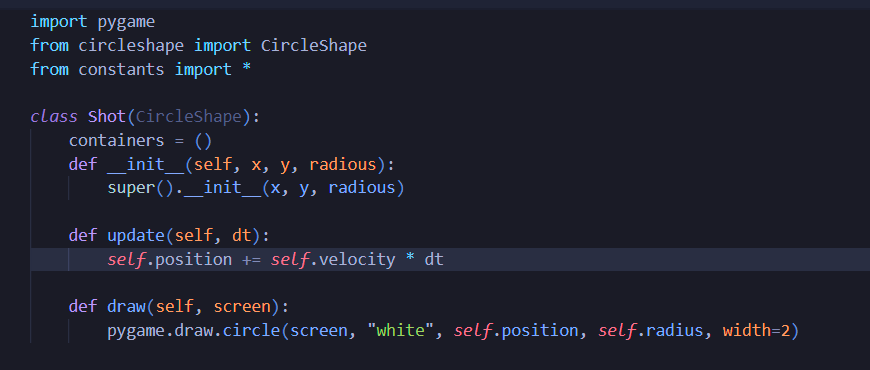
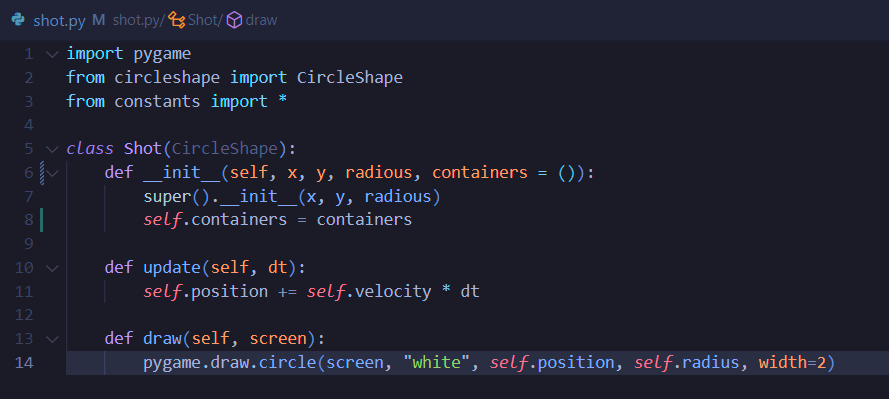
progress website

diff --git a/asteroids.html b/asteroids.html
@@ -10,7 +10,7 @@
 
 <body>
     <article>
-        <div><h1>Thomas' Projects</h1><p><a href="index.html">HOME</a></p><p><a href="index2.html">PROJECT DIRECTORY</a></p><h2>Asteroids</h2><p><img src="static/images/asteroids/asteroids_gif.gif" alt="asteroids pic"></p><blockquote>I know what your thinking.. <i>That game is simple and has been made many times over!</i> While that is true I used this project to experiment with the <i>Pygame</i> moduel and learned many things along the way.</blockquote><h2>The Code</h2><h2><i>Before graphics and controller</i></h2><p><img src="static/images/asteroids/bwasteroids_gif.gif" alt="bwasteroids"></p><ul><li>This is the <a href="https://github.com/BruzaTom/asteroids-">REPO</a> before graphics and controller inputs.</li></ul><p><img src="static/images/asteroids/asteroids_dir.png" alt="asteroids dir pic"></p><blockquote>Here is a look at the root directory.</blockquote><h2><i>requirements.txt</i></h2><p><img src="static/images/asteroids/requirements.png" alt="reqirements"></p><blockquote>Short and sweet! The only requirements for the game are <i>pygame2.6.0</i>, with that the game will run great!</blockquote><h2><i>constants.py</i></h2><p><img src="static/images/asteroids/constants.png" alt="constants"></p><blockquote>If you have developed games before you probly understand the importance of constant variables. If not, the constant variables provide controle to testing the feel of the game and how it behaves. Rather than searching for every instance of player speed in the game, I can simply modify one variable.</blockquote><h2>Class Files</h2><h2><i>circleshape.py</i></h2><p><img src="static/images/asteroids/circleshape2.png" alt="circlshape"></p><blockquote>The foundation of every object in the game is a circleshape. Acting as a hit box, north star for positioning, and in some cases the actual graphic.</blockquote><h2><i>player.py</i></h2><p><img src="static/images/asteroids/player2.png" alt="player"></p><blockquote>Here is the star of the show, the player! This class handles player positioning, inputs to control player, and a method to create shot objects. speaking of shots..</blockquote><p><img src="static/images/asteroids/shots_gif.gif" alt="shots"></p><h2><i>shot.py</i></h2><p><img src="static/images/asteroids/shot.png" alt="shots"></p></div>
+        <div><h1>Thomas' Projects</h1><p><a href="index.html">HOME</a></p><p><a href="index2.html">PROJECT DIRECTORY</a></p><h2>Asteroids</h2><p><img src="static/images/asteroids/asteroids_gif.gif" alt="asteroids pic"></p><blockquote>I know what your thinking.. <i>That game is simple and has been made many times over!</i> While that is true I used this project to experiment with the <i>Pygame</i> moduel and learned many things along the way.</blockquote><h2>The Code</h2><h2><i>Before graphics and controller</i></h2><p><img src="static/images/asteroids/bwasteroids_gif.gif" alt="bwasteroids"></p><ul><li>This is the <a href="https://github.com/BruzaTom/asteroids-">REPO</a> before graphics and controller inputs.</li></ul><p><img src="static/images/asteroids/asteroids_dir.png" alt="asteroids dir pic"></p><blockquote>Here is a look at the root directory.</blockquote><h2>requirements.txt</h2><p><img src="static/images/asteroids/requirements.png" alt="reqirements"></p><blockquote>Short and sweet! The only requirements for the game are <i>pygame2.6.0</i>, with that the game will run great!</blockquote><h2>constants.py</h2><p><img src="static/images/asteroids/constants.png" alt="constants"></p><blockquote>If you have developed games before you probly understand the importance of constant variables. If not, the constant variables provide controle to testing the feel of the game and how it behaves. Rather than searching for every instance of player speed in the game, I can simply modify one variable.</blockquote><h2>circleshape.py</h2><p><img src="static/images/asteroids/circleshape2.png" alt="circlshape"></p><blockquote>The foundation of every object in the game is a circleshape. Acting as a hit box, north star for positioning, and in some cases the actual graphic.</blockquote><h2>player.py</h2><p><img src="static/images/asteroids/player2.png" alt="player"></p><blockquote>Here is the star of the show, the player! This class handles player positioning, inputs to control player, and a method to create shot objects. speaking of shots..</blockquote><p><img src="static/images/asteroids/shots_gif.gif" alt="shots"></p><h2>shot.py</h2><p><img src="static/images/asteroids/shot2.png" alt="shots"></p><blockquote>Pretty standard stuff here an object drawn traveling away from the path it was spawnd.(from players position) Lets get into these containers..</blockquote><h2>main.py</h2><p><img src="static/images/asteroids/cheering.gif" alt="cheering"></p><p><img src="static/images/asteroids/main.png" alt="main"></p></div>
     </article>
 </body>
 

diff --git a/static/index.css b/static/index.css
@@ -48,11 +48,28 @@ h6 {
 a {
     color: #58a6ff;
     text-decoration: none;
-}
-
-a:hover {
-    text-decoration: underline;
-}
+    position: relative;
+    display: inline-block;
+  }
+  
+  a::before {
+    content: '';
+    position: absolute;
+    width: 100%;
+    height: 100%;
+    top: 0;
+    left: 0;
+    background: #323f38;
+    z-index: -1;
+    transition: transform 0.3s ease;
+    transform: scaleX(0);
+    transform-origin: bottom right;
+  }
+  
+  a:hover::before {
+    transform: scaleX(1);
+    transform-origin: bottom left;
+  }
 
 ul,
 ol {
@@ -97,4 +114,9 @@ img {
     display: block;
     margin-left: auto;
     margin-right: auto;
+    box-shadow: 0px 0px 10px #3b5747,
+        0px 0px 10px #3b5747 inset;
+
+    border: 2px solid #3b5747;
+    
 }

diff --git a/src/main.py b/src/main.py
@@ -19,11 +19,7 @@ def generate_pages_recursive(dir_path_content, template_path, dest_dir_path):
     print(f'updating {dest_dir_path} with files in {dir_path_content} using {template_path}...')
     template = getText(template_path)
     content_tree = get_dir(dir_path_content)
-    #static_tree = get_dir('static')
-    #static_tree.update(content_tree)
-    #static_files = get_list('static')
     content_files = get_list(dir_path_content)
-    #static_files.extend(content_files)
     files = []
     for file in content_files:
         files.extend(file)
@@ -39,6 +35,11 @@ def generate_pages_recursive(dir_path_content, template_path, dest_dir_path):
         html_page = getText(template_path).replace('{{ Title }}', title)
         html_page = html_page.replace('{{ Content }}', htmlstring)
         html_page = html_page.replace('<li></li>', '') #bugg
+        #formats for css classes
+        css = 'header'
+        #html_page = html_page.replace('<div>', f'<div class="container">')#neon
+        #html_page = html_page.replace('<im>', '<h2 class="neon">')
+
         path = files[i].replace('md', 'html')
         md_to_html_path = path.replace(dir_path_content, dest_dir_path)
         print(f'\t\tupdating {md_to_html_path} with HTML generated from {files[i]}..')

diff --git a/src/leafnode.py b/src/leafnode.py
@@ -16,14 +16,7 @@ class LeafNode(HTMLNode):
                 raise ValueError
             return f'<a{self.props_to_html()}>{self.value}</a>'
         if self.tag == 'img':
-            return f'<img{self.props_to_html()}>'
-        #use parent node for ul or ol
-        #if self.tag in 'ulol':
-        #    string = f'<{self.tag}>'
-        #    for prop in self.props:
-        #        string += f'<li>{self.props[prop]}</li>'
-        #    string += f'</{self.tag}>'
-        #    return string
+            return f'<img{self.props_to_html()}>' #original
         
 
         

diff --git a/content/asteroids.md b/content/asteroids.md
@@ -22,27 +22,25 @@
 
 > Here is a look at the root directory.
 
-## *requirements.txt*
+## requirements.txt
 
 ![reqirements](static/images/asteroids/requirements.png)
 
 > Short and sweet! The only requirements for the game are *pygame2.6.0*, with that the game will run great!
 
-## *constants.py*
+## constants.py
 
 ![constants](static/images/asteroids/constants.png)
 
 > If you have developed games before you probly understand the importance of constant variables. If not, the constant variables provide controle to testing the feel of the game and how it behaves. Rather than searching for every instance of player speed in the game, I can simply modify one variable.
 
-## Class Files
-
-## *circleshape.py*
+## circleshape.py
 
 ![circlshape](static/images/asteroids/circleshape2.png)
 
 > The foundation of every object in the game is a circleshape. Acting as a hit box, north star for positioning, and in some cases the actual graphic.
 
-## *player.py*
+## player.py
 
 ![player](static/images/asteroids/player2.png)
 
@@ -50,6 +48,14 @@
 
 ![shots](static/images/asteroids/shots_gif.gif)
 
-## *shot.py*
+## shot.py
 
-![shots](static/images/asteroids/shot.png)
+![shots](static/images/asteroids/shot2.png)
+
+> Pretty standard stuff here an object drawn traveling away from the path it was spawnd.(from players position) Lets get into these containers..
+
+## main.py
+
+![cheering](static/images/asteroids/cheering.gif)
+
+![main](static/images/asteroids/main.png)
